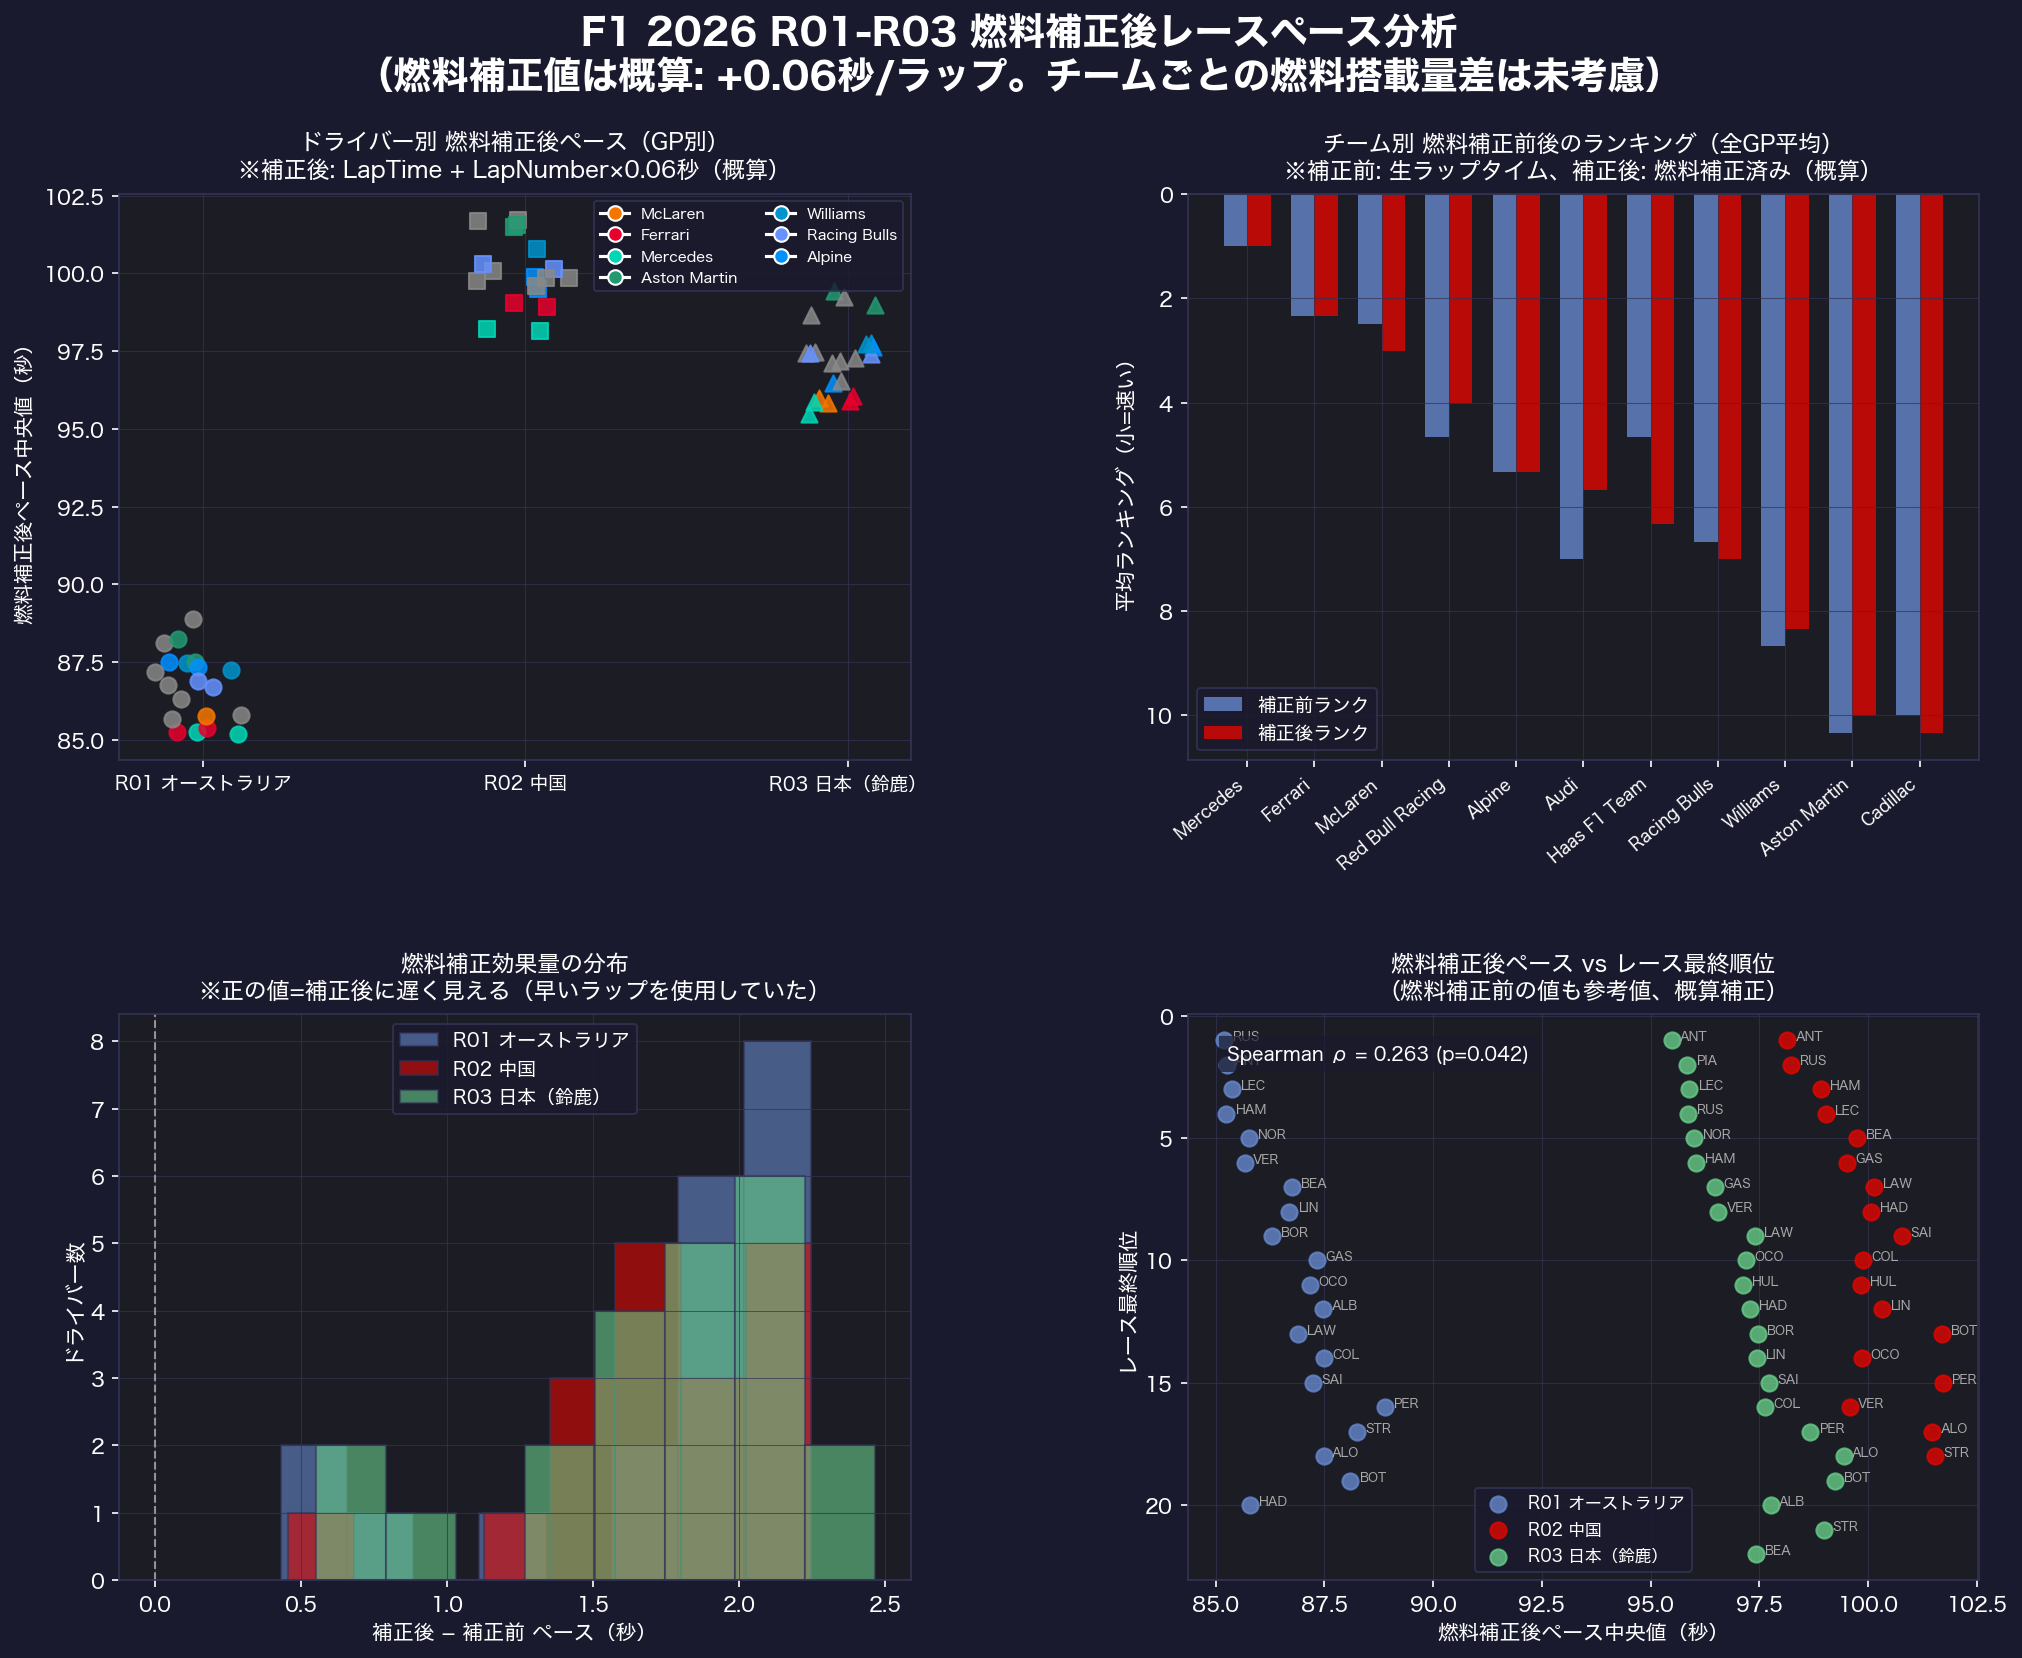
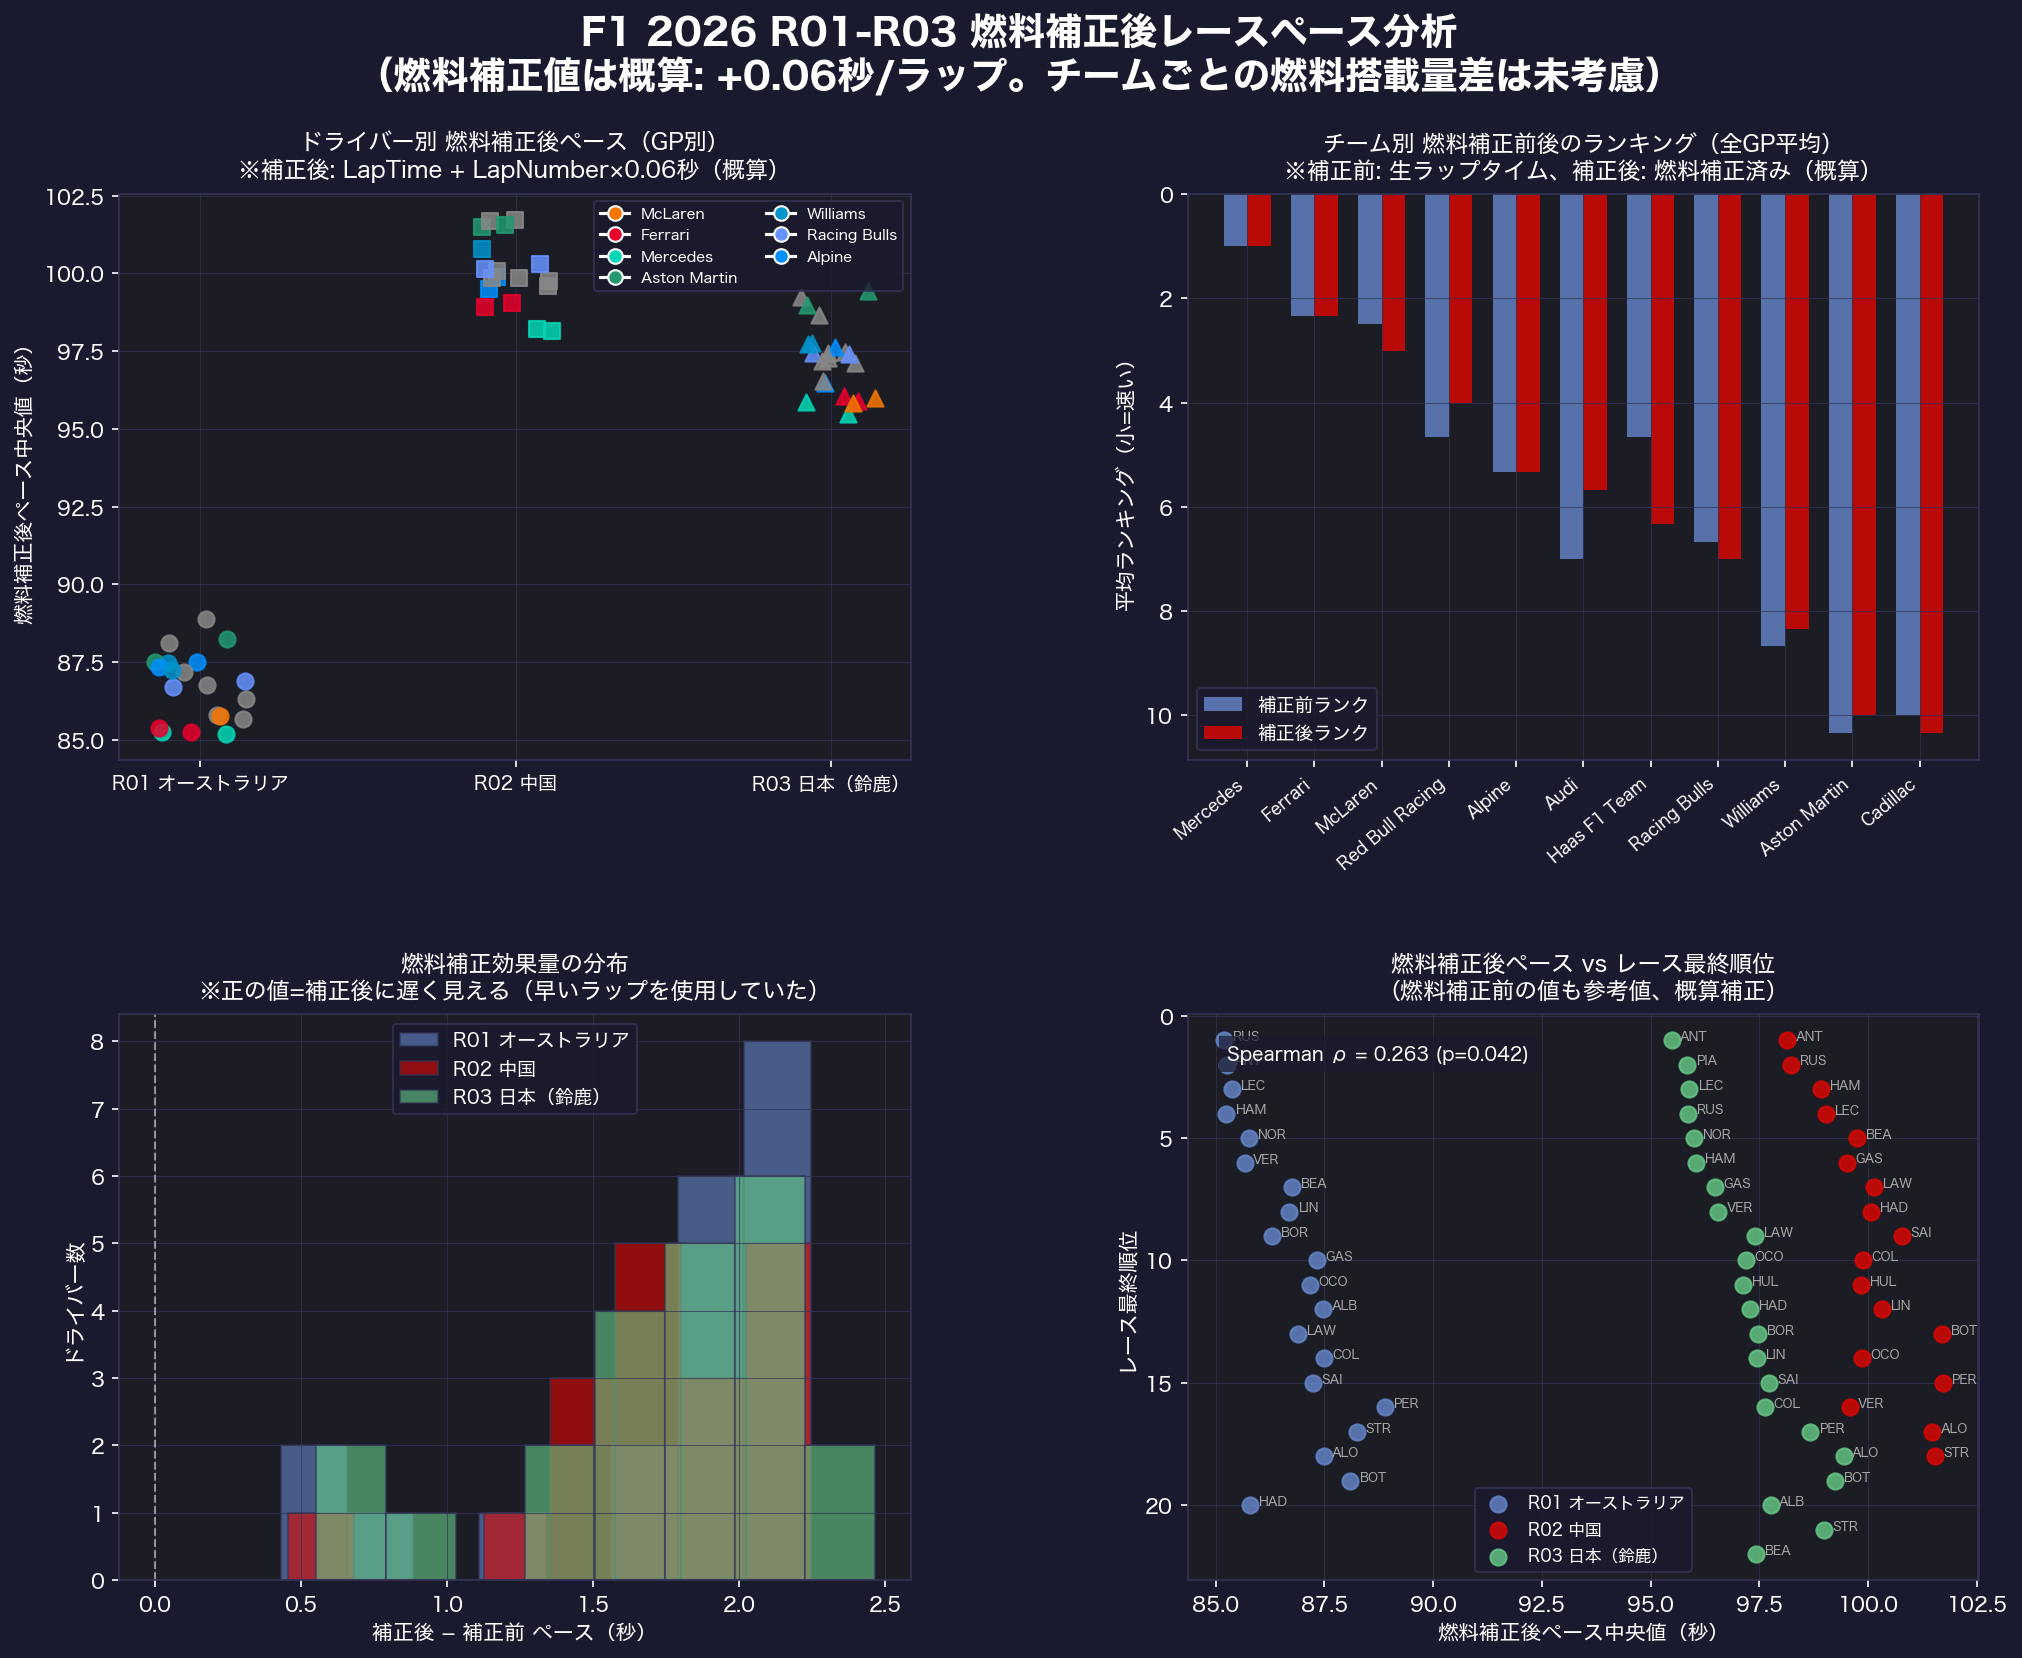
claude[]:

diff --git a/lessons.md b/lessons.md
@@ -76,6 +76,14 @@
 - 未使用コードは放置しない。706行→72行に削減した実績
 - jitter計算に `time.time() % 1` を使うと負の値になりうる → `random.uniform` が正解
 
+## 燃料補正レースペース（T4結果 2026-04-08）
+- 補正モデル: FuelCorrectedTime = LapTime_sec + (LapNumber * 0.06)。0.06 = 1.75kg/lap × 0.035秒/kg
+- 補正前後のチームランキング変動は±1-2位程度 → 均一補正では大きな順位逆転は起きない
+- レース結果との相関（Spearmanρ）: R01=0.26, R02=0.32, R03=0.28。低い理由: ペースだけでなく戦略・SC・ポジション争いが結果に影響
+- R01補正後トップ3: RUS/HAM/ANT（Mercedesが2名、Ferrariが1名）
+- ペース≠結果: 速いドライバーが必ずしも上位フィニッシュしない（戦略・SC・インシデント）
+- 均一燃料補正は精度限界がある。チーム別の燃費差は不明のため、これ以上の精密化は困難
+
 ## ロングラン抽出（T2結果 2026-04-08）
 - 6条件フィルタ（グリーンフラグ/アウトイン除外/同一Stint-Compound/5周以上/107%以内）で2415クリーンラップ抽出
 - VER R01戦略: HARD→MEDIUM→HARD（一般的なMED→HARDの逆戦略）
